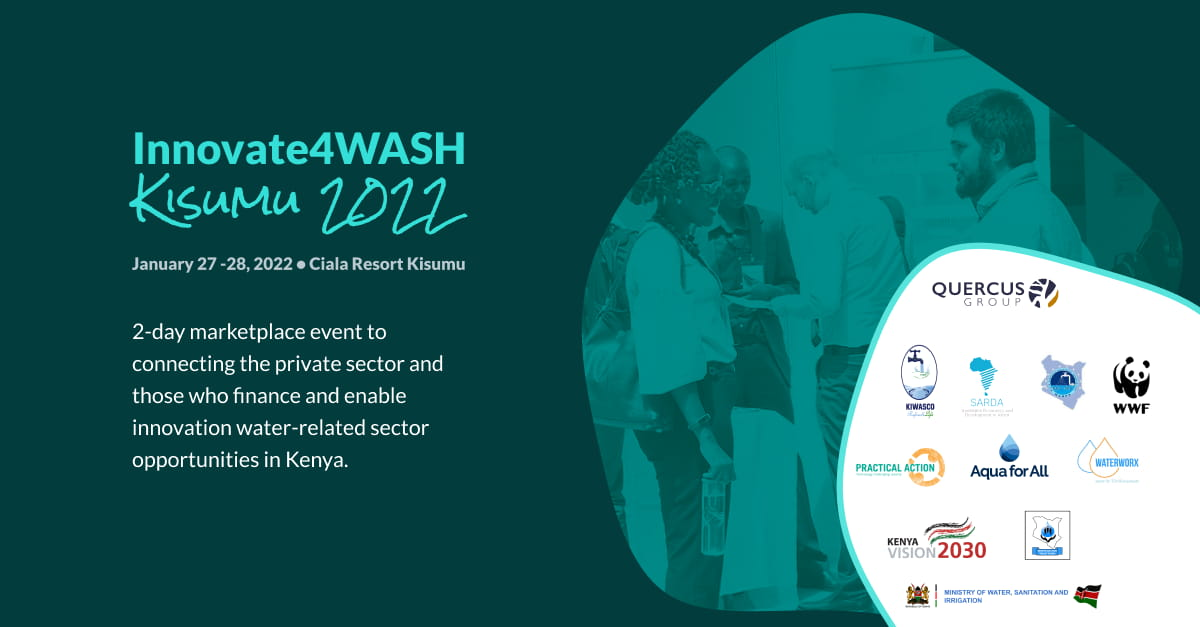
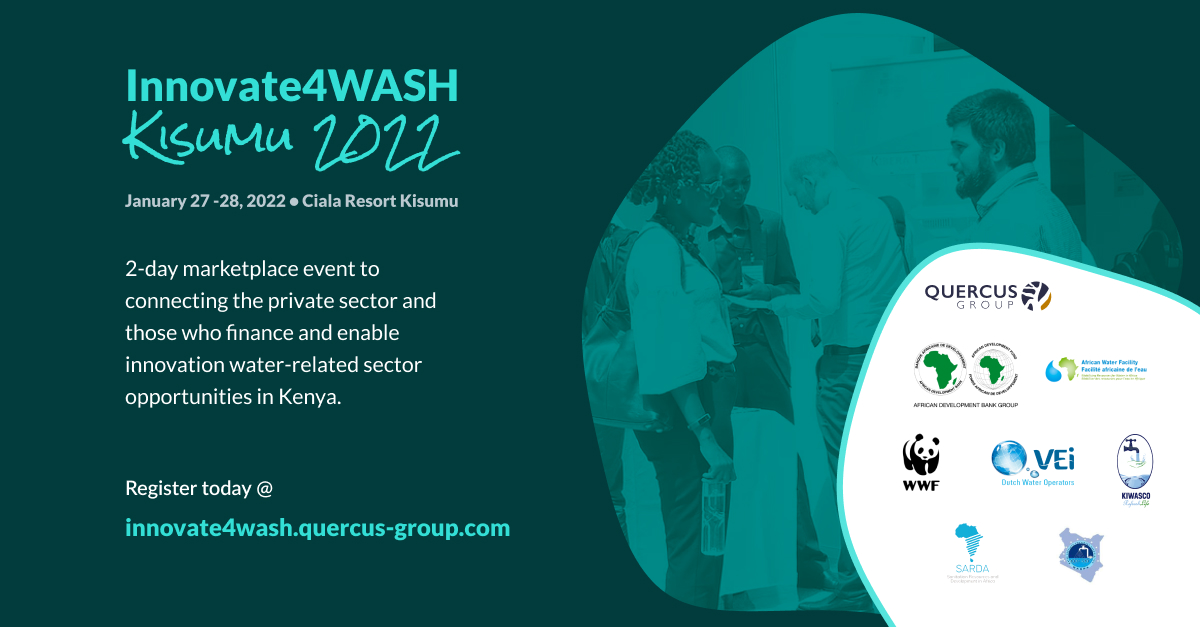
updated the metaimage for the correct sponsors

diff --git a/src/components/SessionCard.js b/src/components/SessionCard.js
@@ -13,7 +13,7 @@ const SessionCard = ({sessionDetails}) => {
     const presentations = Presentations !== null && Presentations.map(presentation => presentation.data)
     
     return ( 
-        <SessionCardContainer>
+        <SessionCardContainer sessiontype={Type}>
 
             <p>{Start.substr(3)} - {End.substr(3)}</p>
             <div className='session-main'>
@@ -64,6 +64,7 @@ const SessionCardContainer = styled.li`
     padding: 1rem 0rem;
     display: grid;
     grid-template-columns: 20% 80%;
+    color: ${props => props.sessiontype === 'Sponsor Session' && '#9E8C2C'};
     .session-main {
         display: grid;
         grid-template-columns: 80% 20%;
@@ -76,7 +77,7 @@ const SessionCardContainer = styled.li`
         justify-self: start;
         background: none;
         border: none;
-        color: #4DEBEB;
+        color: ${props => props.sessiontype === 'Sponsor Session' ? '#9E8C2C' : '#4DEBEB'};
         text-decoration: underline;
         cursor: pointer;
     }
@@ -89,7 +90,7 @@ const SessionCardContainer = styled.li`
         font-weight: 400;
         font-size: 0.8rem;
         line-height: 1.2;
-        outline: #4DEBEB solid 1px;
+        outline: ${props => props.sessiontype === 'Sponsor Session' ? '#9E8C2C' : '#4DEBEB'} solid 1px;
         outline-offset: 2px;
         height: fit-content;
         width: fit-content;
@@ -111,7 +112,7 @@ const SessionCardContainer = styled.li`
         margin-bottom: 0;
     }
     .speaker a {
-        color: #4DEBEB;
+        color: ${props => props.sessiontype === 'Sponsor Session' ? '#9E8C2C' : '#4DEBEB'};
         text-decoration: underline;
     }
     .speaker-name {

diff --git a/src/components/SponsorsAndPartners.js b/src/components/SponsorsAndPartners.js
@@ -49,11 +49,15 @@ const SponsorsAndPartners = () => {
 export default SponsorsAndPartners;
 
 const SponsorsDisplay = styled.section`
+  padding: 0rem 2rem;
     .display-container {
         display: flex;
         justify-content: flex-start;
         flex-wrap: wrap;
         margin-top: 1rem;
+    }
+    @media screen and (max-width: 588px){
+      padding: 0rem 1rem;
     }
 `
 
